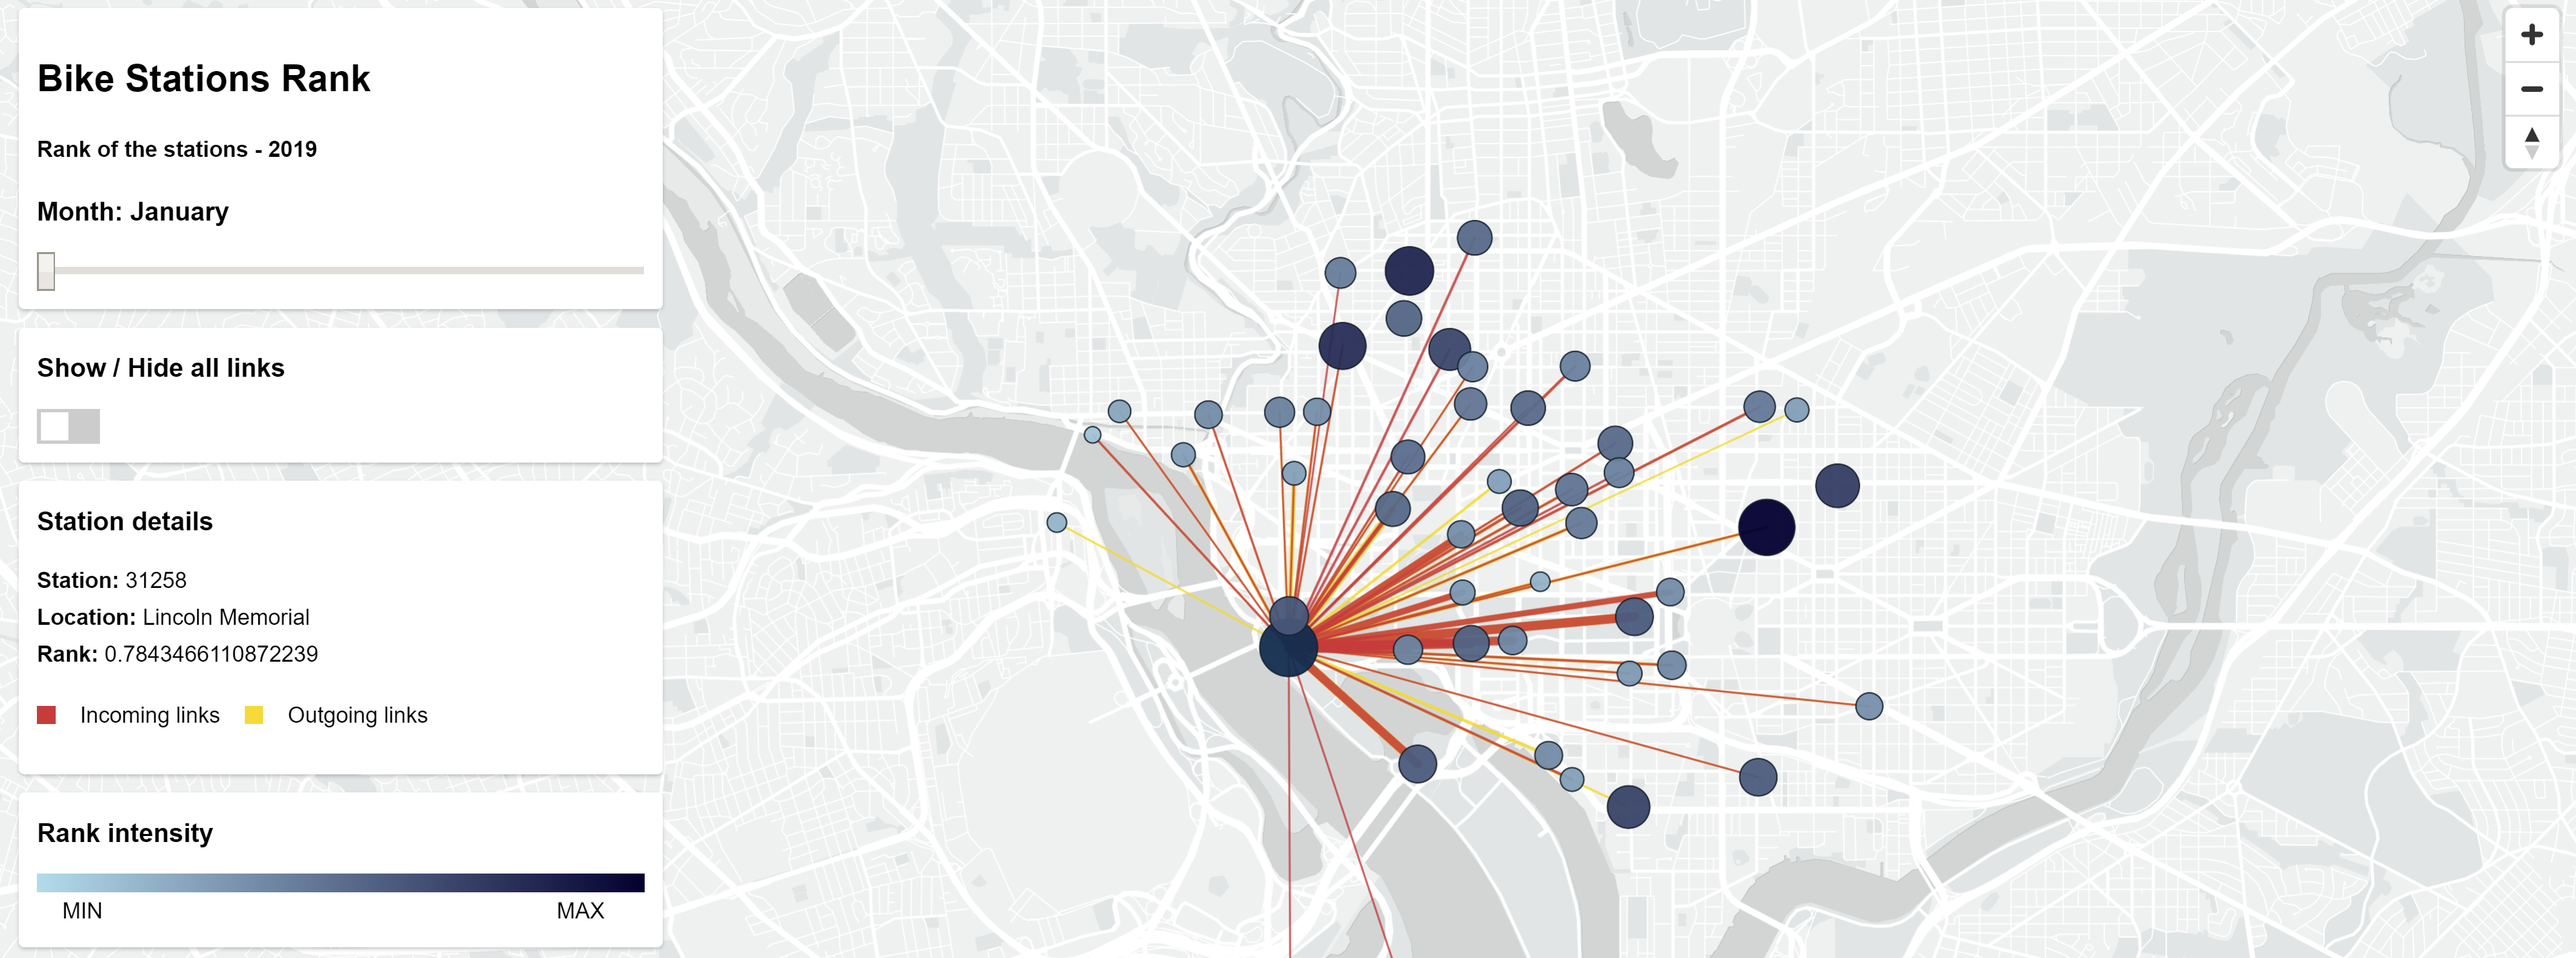
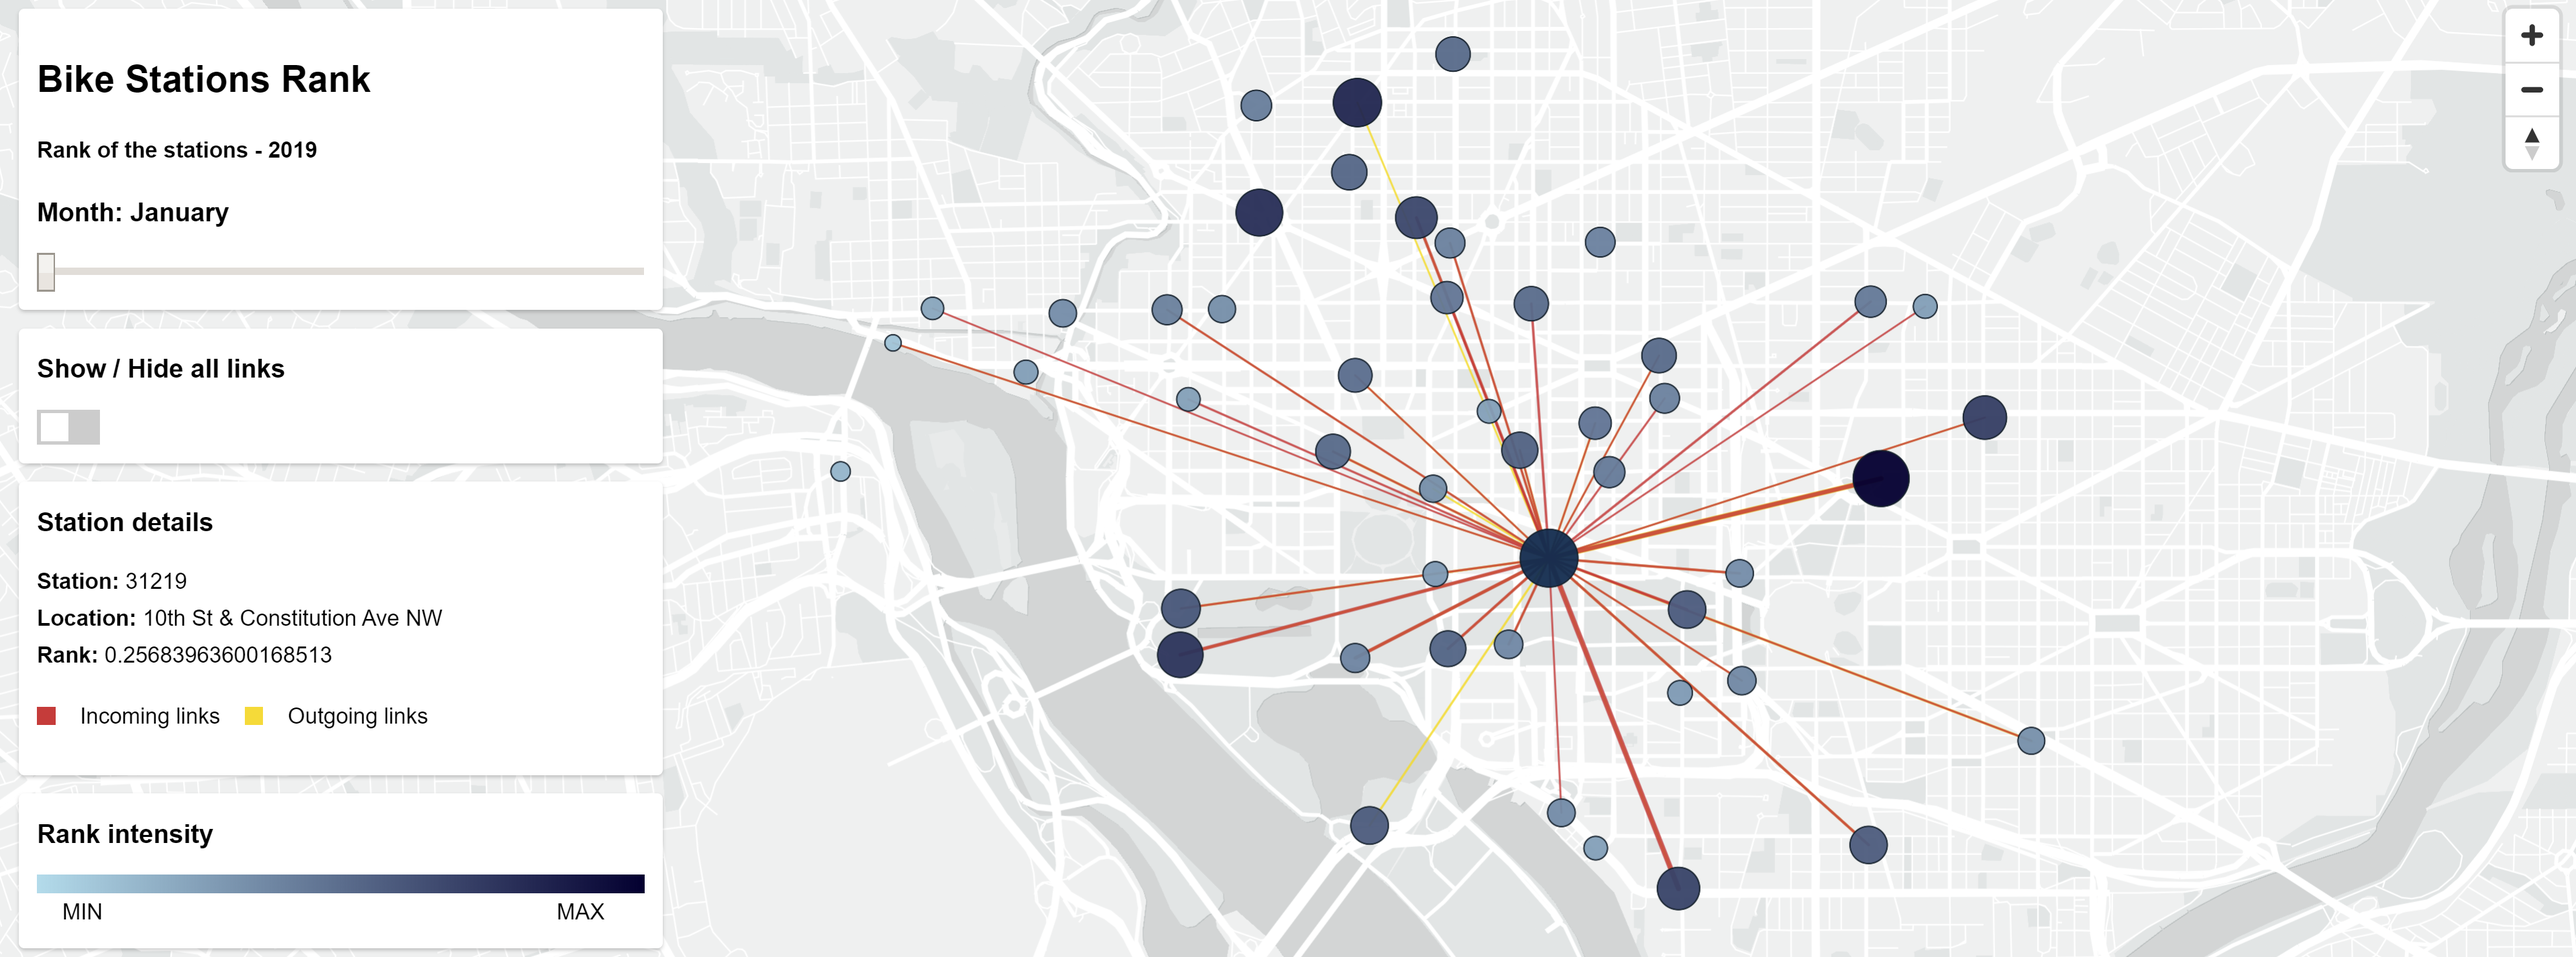
- resolved a issue that caused the app to stop when uploading files - changes GCP Region to europe-west1 - updated demo.png

diff --git a/mapViewer/routes/dataproc.js b/mapViewer/routes/dataproc.js
@@ -19,6 +19,7 @@ function runRequest(request) {
             done = true;
         })
         .catch(e => {
+            console.log(e);
             error = e.message;
         });
 }
@@ -169,6 +170,7 @@ async function uploadFile(options) {
         // Support for HTTP requests made with `Accept-Encoding: gzip`
         gzip: false,
         destination: `${gsDir}${file}`,
+        resumable: false,
         metadata: {
             // Enable long-lived HTTP caching headers
             // Use only if the contents of the file will never change

diff --git a/README.md b/README.md
@@ -183,8 +183,8 @@ Also, you can decide to use the default values for the other arguments, or you c
 the default settings.
 
 #### Input
-The field `input` specifies the folder and the names of the files to be processed. 
-By default, the `data/input` folder contains all the input files named by `[year][mont]-capitalbikeshare-tripdata.csv`.
+The field `input` specifies the path and the names of the files to be processed. 
+By default, the `data/input` folder contains all the input files named by `[year][month]-capitalbikeshare-tripdata.csv`.
 
 #### Output
 
@@ -264,7 +264,7 @@ gcloud projects create pagerank-project`
 This command allows you to create a new bucket used to store all the data required to 
 the project and is used to store all the results. 
 ```
-gsutil mb -p pagerank-project -l US-CENTRAL1 -c STANDARD gs://pagerank-bucket/
+gsutil mb -p pagerank-project -l EUROPE-WEST3 -c STANDARD gs://pagerank-bucket/
 ```
 #### Create a cluster 
 This below is an example with three nodes: a master and two workers. You are free to 
@@ -272,9 +272,9 @@ apply changes. Bear in mind that the actual image-version (1.5-debian10) has the
 correct version of Scala and Spark. 
 ```
 gcloud dataproc clusters create pagerank-cluster
---region us-central1
+--region europe-west3
 --subnet default
---zone us-central1-a
+--zone europe-west3-a
 --master-machine-type n1-standard-1
 --master-boot-disk-size 30
 --num-workers 2
